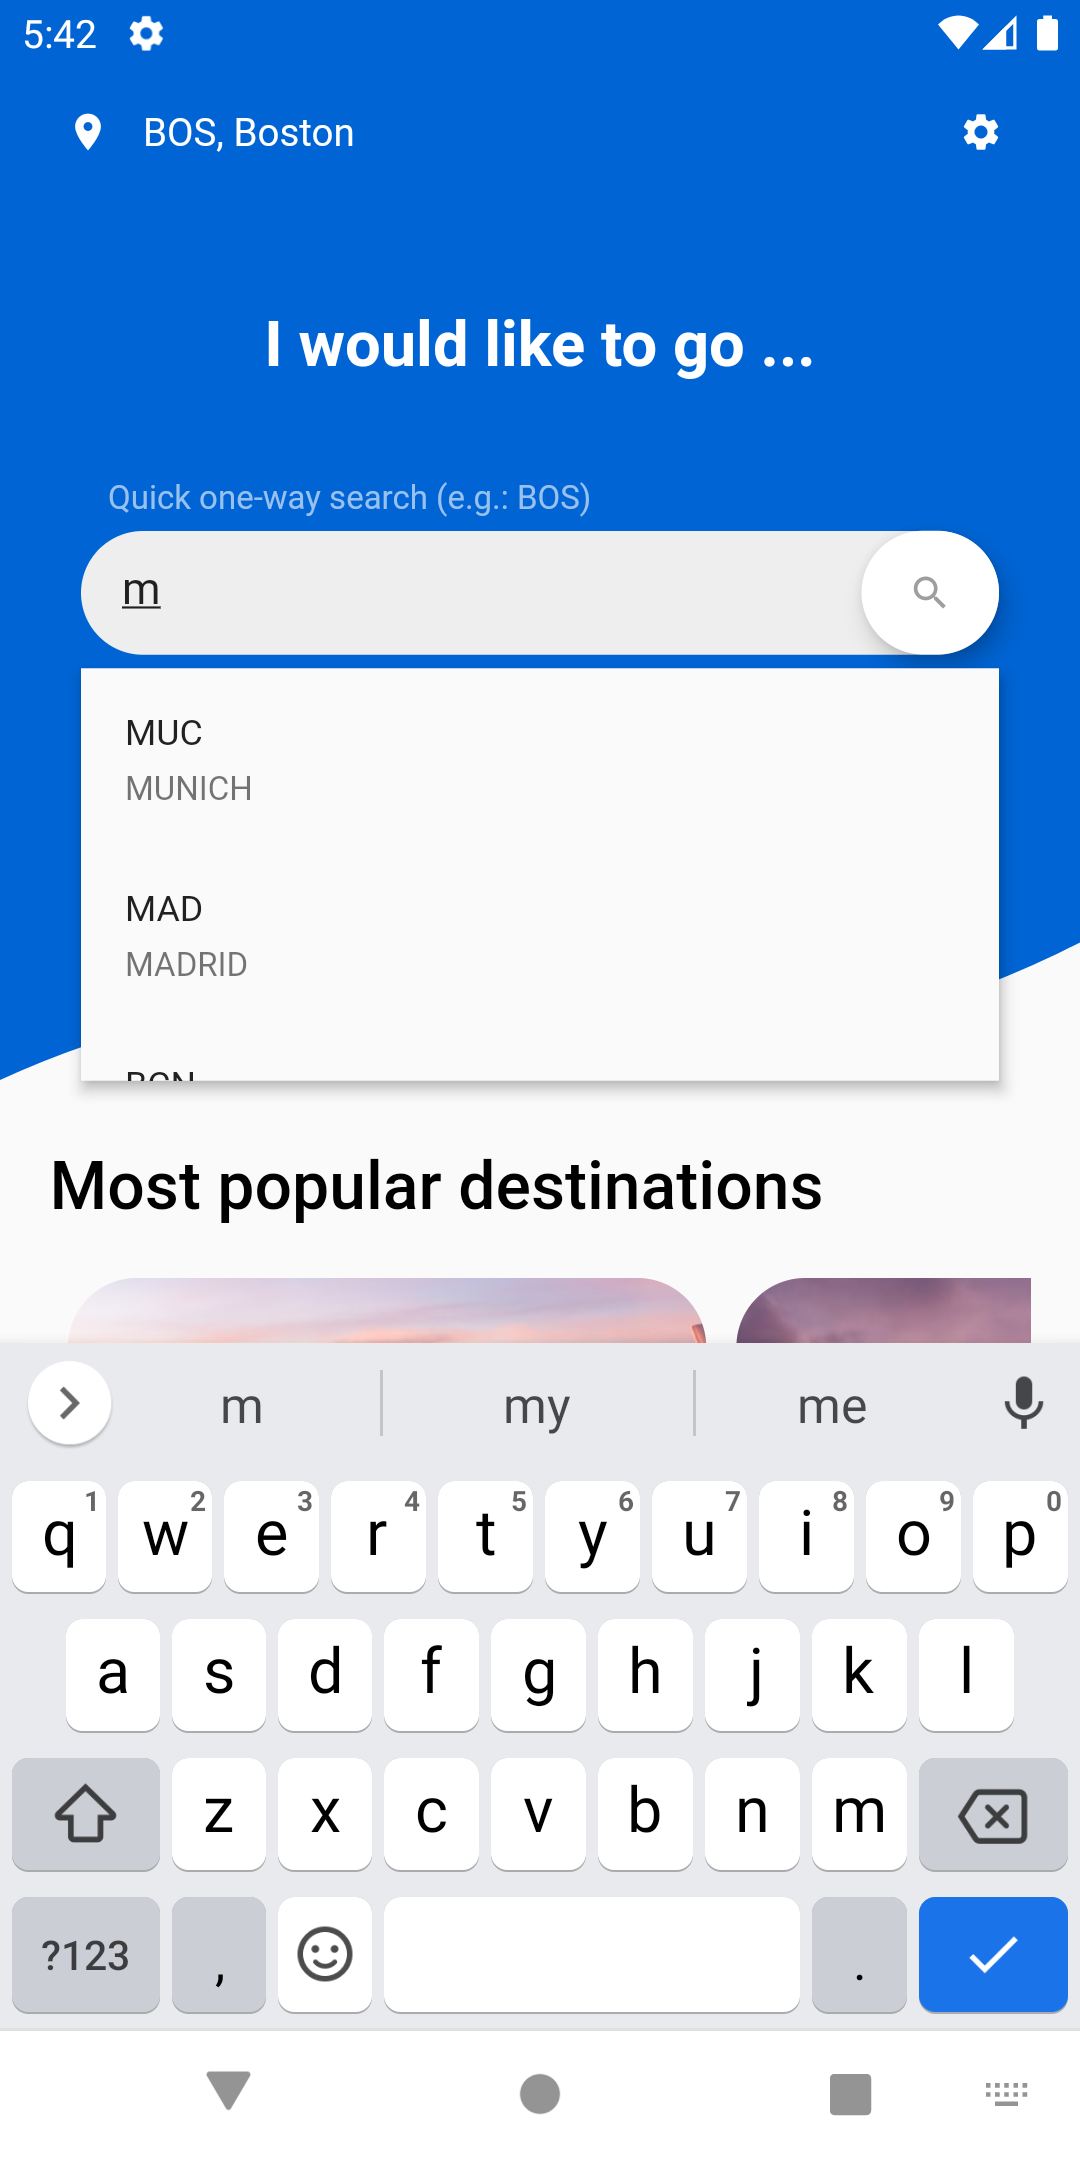
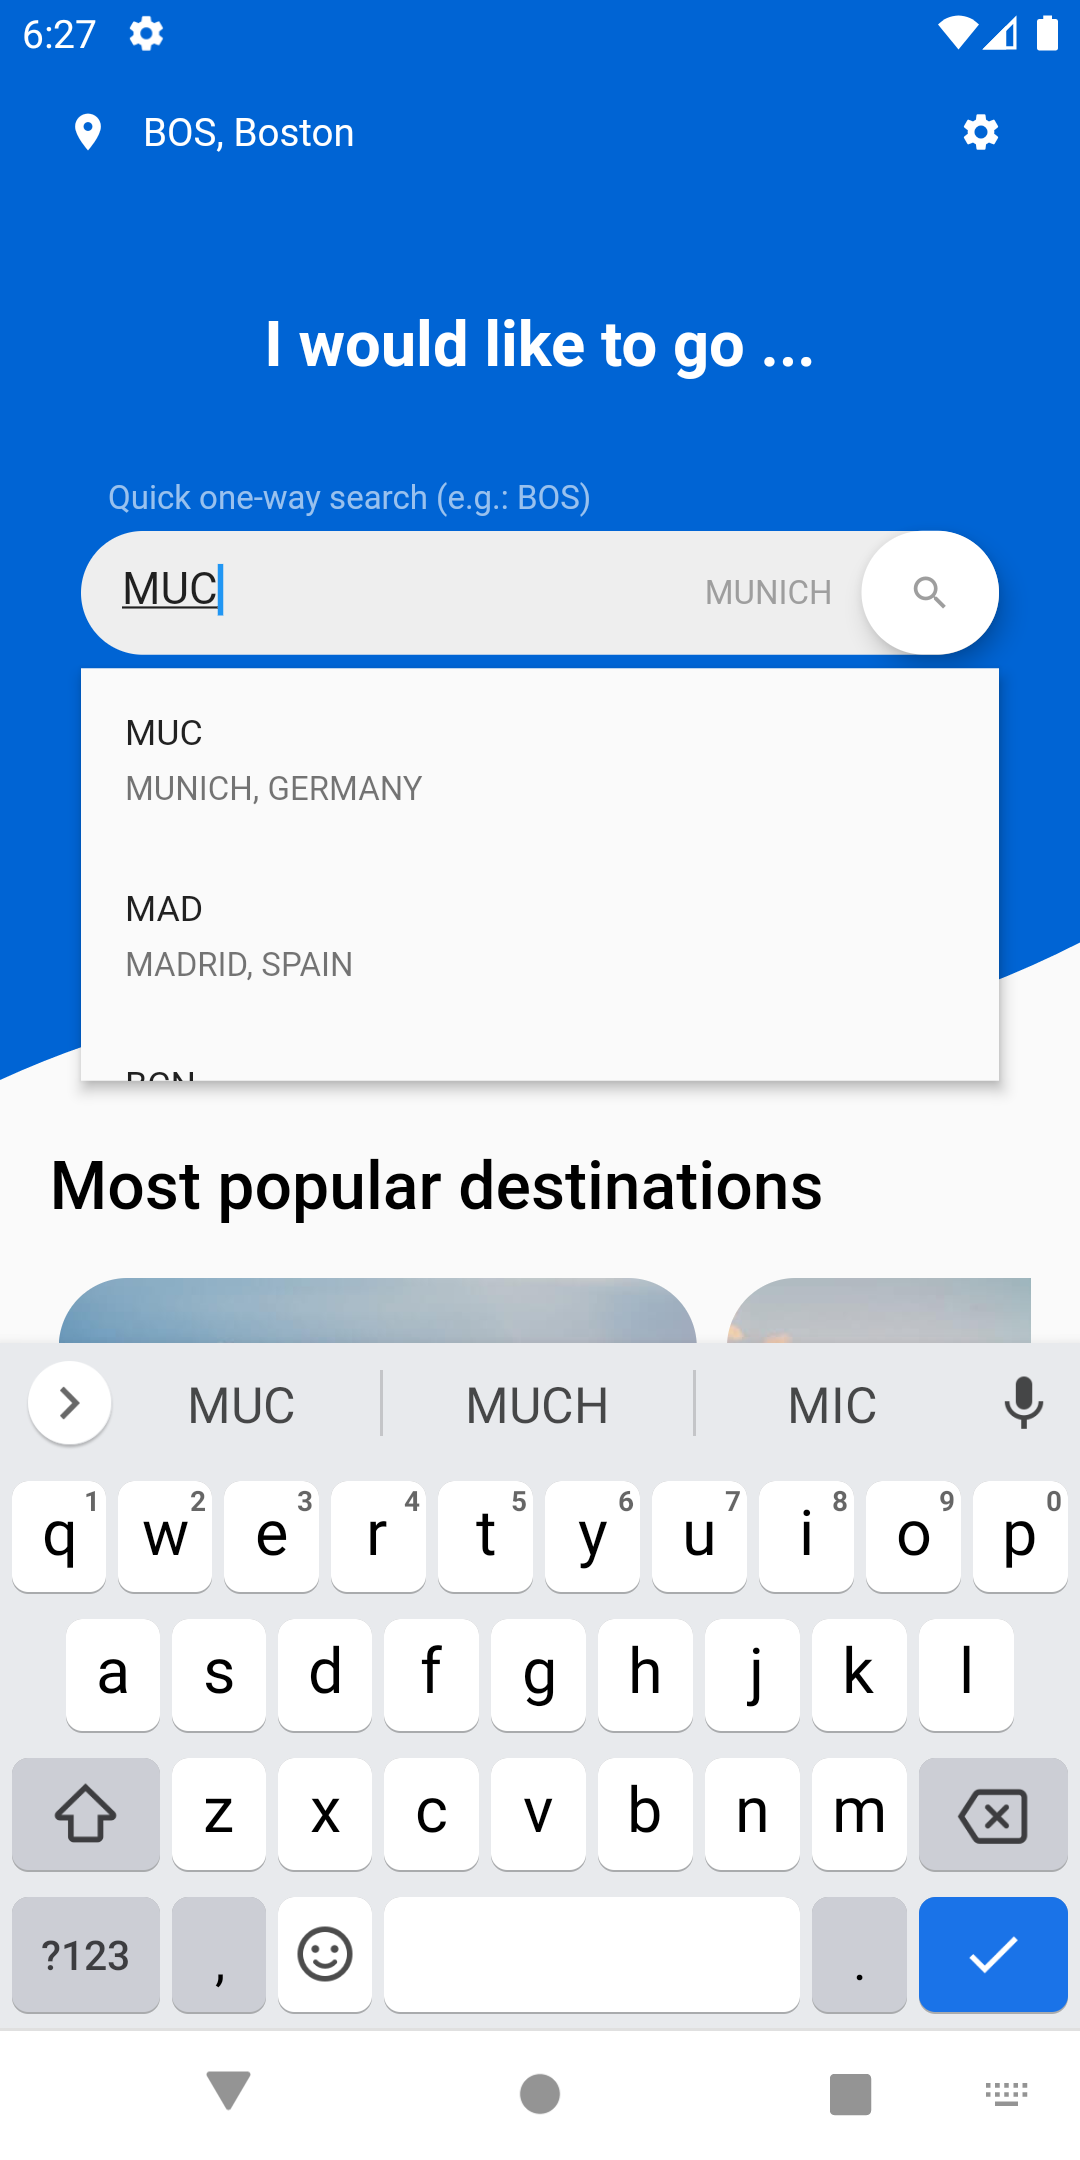
Add country name to Search suggestion box

diff --git a/lib/data/data_providers/remote/amadeus_api/mocked_data.dart b/lib/data/data_providers/remote/amadeus_api/mocked_data.dart
@@ -55,7 +55,7 @@ class AmadeusMockedDataProvider implements AmadeusBaseDataProvider {
 
   @override
   Future<String> getRawAirportCitySearch(_) async {
-    final rawData = '''{"meta":{"count":2,"links":{"self":"https://test.api.amadeus.com/v1/reference-data/locations?subType=CITY,AIRPORT&keyword=MUC&countryCode=DE"}},"data":[{"type":"location","subType":"CITY","name":"MUNICH INTERNATIONAL","detailedName":"MUNICH/DE:MUNICH INTERNATIONAL","id":"CMUC","self":{"href":"https://test.api.amadeus.com/v1/reference-data/locations/CMUC","methods":["GET"]},"timeZoneOffset":"+02:00","iataCode":"MUC","geoCode":{"latitude":48.35378,"longitude":11.78609},"address":{"cityName":"MUNICH","cityCode":"MUC","countryName":"GERMANY","countryCode":"DE","regionCode":"EUROP"},"analytics":{"travelers":{"score":27}}},{"type":"location","subType":"CITY","name":"MUATIONAL","detailedName":"MUNICH/DE:MUNICH INTERNATIONAL","id":"CMUC","self":{"href":"https://test.api.amadeus.com/v1/reference-data/locations/CMUC","methods":["GET"]},"timeZoneOffset":"+02:00","iataCode":"ZUC","geoCode":{"latitude":48.35378,"longitude":11.78609},"address":{"cityName":"MADRID","cityCode":"MAD","countryName":"GERMANY","countryCode":"DE","regionCode":"EUROP"},"analytics":{"travelers":{"score":27}}},{"type":"location","subType":"CITY","name":"KSF","detailedName":"THIS IS","id":"OFC","self":{"href":"https://test.api.amadeus.com/v1/reference-data/locations/AMUC","methods":["GET"]},"timeZoneOffset":"+02:00","iataCode":"MUC","geoCode":{"latitude":48.35378,"longitude":11.78609},"address":{"cityName":"BARCELONA","cityCode":"BCN","countryName":"GERMANY","countryCode":"DE","regionCode":"EUROP"},"analytics":{"travelers":{"score":27}}},{"type":"location","subType":"CITY","name":"KSF","detailedName":"LONDON AIRPORT","id":"AMUC","self":{"href":"https://test.api.amadeus.com/v1/reference-data/locations/AMUC","methods":["GET"]},"timeZoneOffset":"+02:00","iataCode":"NUC","geoCode":{"latitude":48.35378,"longitude":11.78609},"address":{"cityName":"LONDON","cityCode":"LON","countryName":"GERMANY","countryCode":"DE","regionCode":"EUROP"},"analytics":{"travelers":{"score":27}}}]}''';
+    final rawData = '''{"meta":{"count":2,"links":{"self":"https://test.api.amadeus.com/v1/reference-data/locations?subType=CITY,AIRPORT&keyword=MUC&countryCode=DE"}},"data":[{"type":"location","subType":"CITY","name":"MUNICH INTERNATIONAL","detailedName":"MUNICH/DE:MUNICH INTERNATIONAL","id":"CMUC","self":{"href":"https://test.api.amadeus.com/v1/reference-data/locations/CMUC","methods":["GET"]},"timeZoneOffset":"+02:00","iataCode":"MUC","geoCode":{"latitude":48.35378,"longitude":11.78609},"address":{"cityName":"MUNICH","cityCode":"MUC","countryName":"GERMANY","countryCode":"DE","regionCode":"EUROP"},"analytics":{"travelers":{"score":27}}},{"type":"location","subType":"CITY","name":"MUATIONAL","detailedName":"MUNICH/DE:MUNICH INTERNATIONAL","id":"CMUC","self":{"href":"https://test.api.amadeus.com/v1/reference-data/locations/CMUC","methods":["GET"]},"timeZoneOffset":"+02:00","iataCode":"ZUC","geoCode":{"latitude":48.35378,"longitude":11.78609},"address":{"cityName":"MADRID","cityCode":"MAD","countryName":"SPAIN","countryCode":"DE","regionCode":"EUROP"},"analytics":{"travelers":{"score":27}}},{"type":"location","subType":"CITY","name":"KSF","detailedName":"THIS IS","id":"OFC","self":{"href":"https://test.api.amadeus.com/v1/reference-data/locations/AMUC","methods":["GET"]},"timeZoneOffset":"+02:00","iataCode":"MUC","geoCode":{"latitude":48.35378,"longitude":11.78609},"address":{"cityName":"BARCELONA","cityCode":"BCN","countryName":"SPAIN","countryCode":"DE","regionCode":"EUROP"},"analytics":{"travelers":{"score":27}}},{"type":"location","subType":"CITY","name":"KSF","detailedName":"LONDON AIRPORT","id":"AMUC","self":{"href":"https://test.api.amadeus.com/v1/reference-data/locations/AMUC","methods":["GET"]},"timeZoneOffset":"+02:00","iataCode":"NUC","geoCode":{"latitude":48.35378,"longitude":11.78609},"address":{"cityName":"LONDON","cityCode":"LON","countryName":"UNITED KINGDOM","countryCode":"DE","regionCode":"EUROP"},"analytics":{"travelers":{"score":27}}}]}''';
     // final rawData = '''{"meta":{"count":2,"links":{"self":"https://test.api.amadeus.com/v1/reference-data/locations?subType=CITY,AIRPORT&keyword=MUC&countryCode=DE"}},"data":[{"type":"location","subType":"CITY","name":"MUNICH INTERNATIONAL","detailedName":"MUNICH/DE:MUNICH INTERNATIONAL","id":"CMUC","self":{"href":"https://test.api.amadeus.com/v1/reference-data/locations/CMUC","methods":["GET"]},"timeZoneOffset":"+02:00","iataCode":"MUC","geoCode":{"latitude":48.35378,"longitude":11.78609},"address":{"cityName":"MUNICH","cityCode":"MUC","countryName":"GERMANY","countryCode":"DE","regionCode":"EUROP"},"analytics":{"travelers":{"score":27}}},{"type":"location","subType":"AIRPORT","name":"MUNICH INTERNATIONAL","detailedName":"MUNICH/DE:MUNICH INTERNATIONAL","id":"AMUC","self":{"href":"https://test.api.amadeus.com/v1/reference-data/locations/AMUC","methods":["GET"]},"timeZoneOffset":"+02:00","iataCode":"MUC","geoCode":{"latitude":48.35378,"longitude":11.78609},"address":{"cityName":"MUNICH","cityCode":"MUC","countryName":"GERMANY","countryCode":"DE","regionCode":"EUROP"},"analytics":{"travelers":{"score":27}}}]}''';
 
     return simulateRemoteDataDelay(rawData);

diff --git a/lib/presentation/pages/home/home_page.dart b/lib/presentation/pages/home/home_page.dart
@@ -272,12 +272,12 @@ class _HomePageState extends State<HomePage> {
                   ? Duration(milliseconds: 0)
                   : Duration(milliseconds: 750),
               itemBuilder: (context, suggestion) {
-                final airport = suggestion as Airport;
+                final airportAddress = (suggestion as Airport).address;
 
                 return ListTile(
                   dense: true,
-                  title: Text(airport.address.cityCode),
-                  subtitle: Text(airport.address.cityName),
+                  title: Text(airportAddress.cityCode),
+                  subtitle: Text('${airportAddress.cityName}, ${airportAddress.countryName}'),
                 );
               },
               transitionBuilder: (context, suggestionsBox, controller) {
@@ -426,6 +426,7 @@ class _HomePageState extends State<HomePage> {
                     child: RoundedCard(
                       cityCode: data[index].name,
                       assetNum: index > 4 ? index % 5 : index,
+                      // TODO: Navigate to destination page (with flight search button, if it matches with current location then hide)
                       onTap: () {
                         print(data[index].name);
                       },
